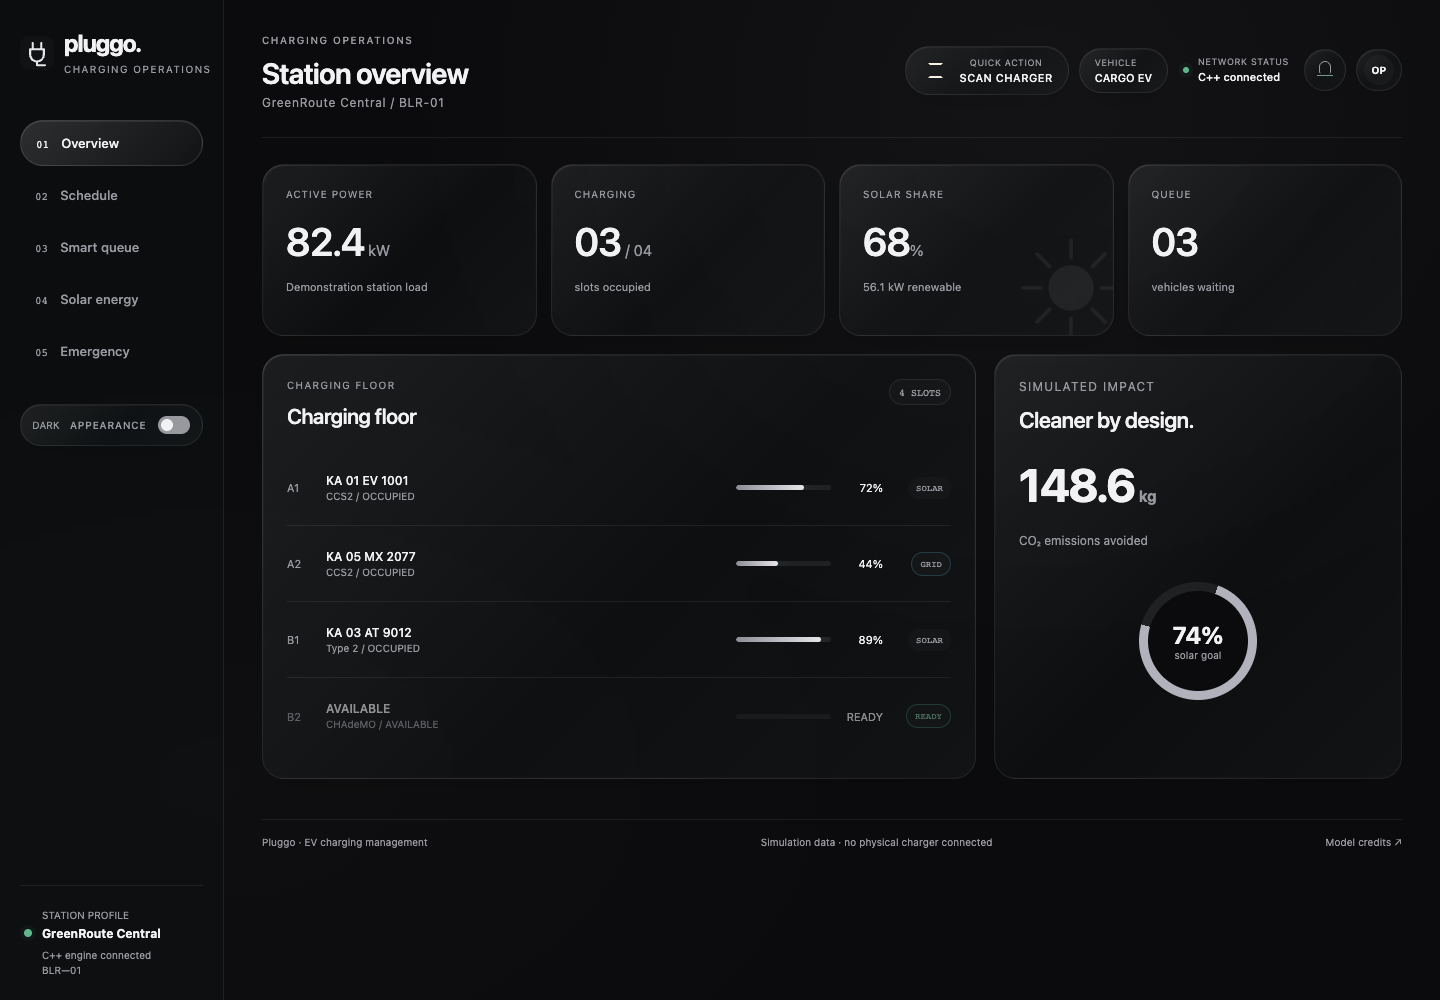
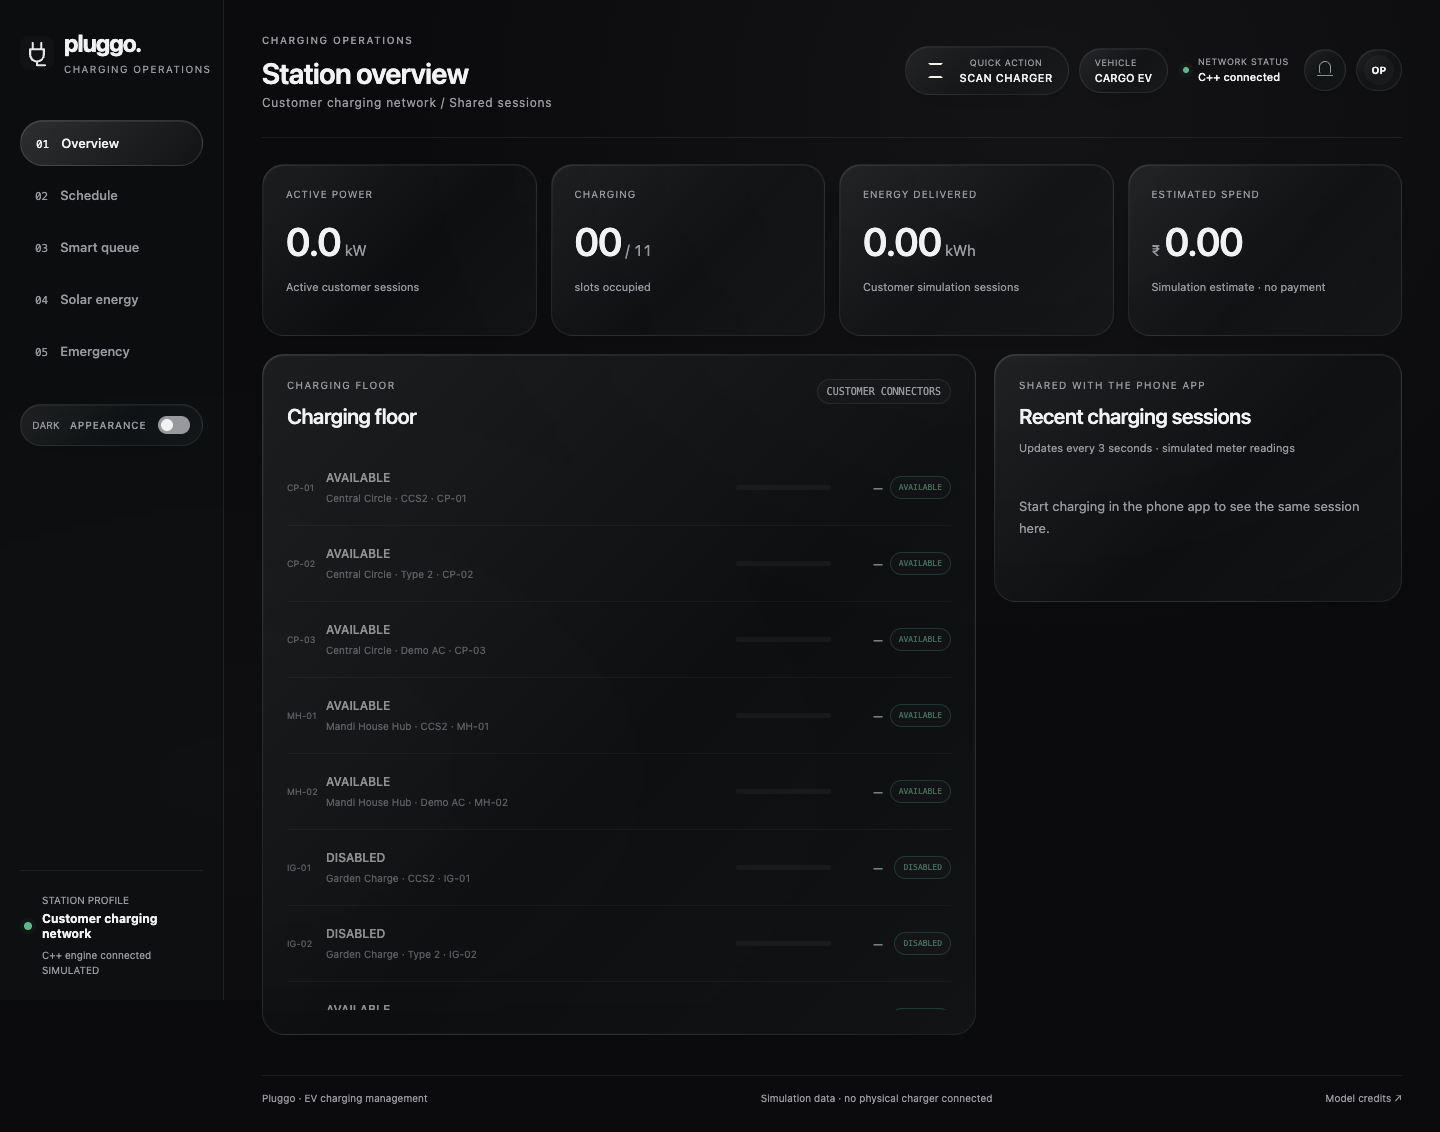
Document and verify live phone-to-dashboard charging demonstration

diff --git a/frontend/operator.html b/frontend/operator.html
@@ -91,11 +91,11 @@
     <section id="overview" class="panel active-panel">
       <div class="metric-grid">
         <article class="metric hero-metric">
-          <p>ACTIVE POWER</p><strong><span id="activePower">82.4</span><small> kW</small></strong>
+          <p>ACTIVE POWER</p><strong><span id="activePower">0.0</span><small> kW</small></strong>
           <div class="power-wave" aria-hidden="true"><i></i><i></i><i></i><i></i><i></i><i></i><i></i><i></i></div>
           <span class="trend">Active customer sessions</span>
         </article>
-        <article class="metric"><p>CHARGING</p><strong id="occupiedCount">03<small> / 04</small></strong><span>slots occupied</span></article>
+        <article class="metric"><p>CHARGING</p><strong id="occupiedCount">00<small> / 00</small></strong><span>slots occupied</span></article>
         <article class="metric"><p>ENERGY DELIVERED</p><strong><span id="energyDelivered">0.00</span><small> kWh</small></strong><span>Customer simulation sessions</span></article>
         <article class="metric"><p>ESTIMATED SPEND</p><strong><small>₹ </small><span id="estimatedSpend">0.00</span></strong><span>Simulation estimate · no payment</span></article>
       </div>

diff --git a/frontend/dashboard.css b/frontend/dashboard.css
@@ -333,3 +333,8 @@ html[data-theme] .nav-item {transition:background-color .25s var(--d-ease),box-s
 html[data-theme] .customer-session-row {display:flex;flex-direction:column;gap:7px;padding:18px 0;border-bottom:1px solid var(--d-line);font-size:13px;}
 html[data-theme] .customer-session-row small,html[data-theme] .session-sync-note {color:var(--d-muted);font-size:11px;line-height:1.6;}
 html[data-theme] .customer-session-row span {font-size:12px;}
+html[data-theme] .slot-row .vehicle small {display:block;line-height:1.6;}
+html[data-theme] .slot-row .slot-number {white-space:nowrap;font-size:9px;}
+html[data-theme] .customer-sessions-card {align-self:start;}
+html[data-theme] .session-card .slot-list {max-height:560px;overflow-y:auto;scrollbar-width:thin;}
+html[data-theme] .slot-row .source {font-size:8px;}

diff --git a/docs/submission/SHARED-CHARGING-DEMO.md b/docs/submission/SHARED-CHARGING-DEMO.md
@@ -1,0 +1,36 @@
+# Phone-to-dashboard charging demonstration
+
+The customer app and operator Overview now share the same C++/SQLite customer
+sessions. The simulator sends authenticated meter readings; the operator reads
+an aggregate snapshot through the existing protected `/api/station` gateway.
+No visitor cookies, owner identifiers or idempotency keys are returned to the
+operator. This remains a public college demo, not production operator login.
+
+1. Open https://oops-omega.vercel.app/#overview on the presentation computer.
+2. Open the latest APK online. It should load https://pluggo-customer-demo.onrender.com.
+   If it shows offline preview, Android Back → Connection settings → enter that
+   Render URL → Connect. Offline-only sessions cannot appear on the website.
+3. Choose the car. Open Stations, select Central Circle and an available CCS2
+   connector (CP-01), then start a simulated session. A high target and budget
+   give more time to demonstrate the accelerated simulator.
+4. Within roughly three seconds plus network latency, the dashboard shows that
+   connector occupied, the same vehicle, battery percentage, power, energy and
+   estimated cost. Recent sessions shows the matching connector.
+5. Stop charging in the app. The connector becomes available, power drops, and
+   the recent entry changes to Finished while retaining delivered energy/cost.
+6. Complete checkout in the app to show the simulated receipt. No money is taken.
+
+The dashboard aggregates the five demo stations rather than mapping their sessions
+onto the unrelated A1/A2/B1/B2 planner bays. Schedule, queue and solar remain
+separate demonstrations; serving the queue does not start a customer session.
+Energy and estimated spend totals include saved active and finished sessions.
+Free Render data can reset on deployment/restart, and first access can need warmup.
+Reload the dashboard after deployment; it polls while visible every three seconds.
+
+Validation: `python3 tests/api/customer_integration.py` verifies shared session
+readings, automatic completion, connector release and privacy of owner metadata.
+`node tests/web/shared-session-browser.mjs` starts a dedicated customer visitor,
+checks live Vercel dashboard updates against Render, stops charging and verifies
+release/history. It resets only its own visitor data afterwards. The broader
+five-page dashboard checks also passed at four viewport sizes. No physical
+charger is involved and this change does not require rebuilding the hosted APK.

diff --git a/README.md b/README.md
@@ -46,6 +46,14 @@ Docker/Render package preserving the C++ backend. The C++ backend is deployed at
 https://pluggo-customer-demo.onrender.com. The selected default
 is free demo hosting with an ephemeral SQLite database; saved data can reset.
 
+## Shared phone and dashboard demonstration
+
+Customer charging sessions now appear in the operator Overview, using the same
+C++/SQLite data and simulator meter readings. Connector occupancy, battery level,
+energy and estimated cost refresh every three seconds; stopping charging releases
+the connector and keeps the finished session visible. Use the hosted app, not
+its offline preview. See [demonstration steps](docs/submission/SHARED-CHARGING-DEMO.md).
+
 ## Live operations website
 
 The existing Vercel operations dashboard is published at
